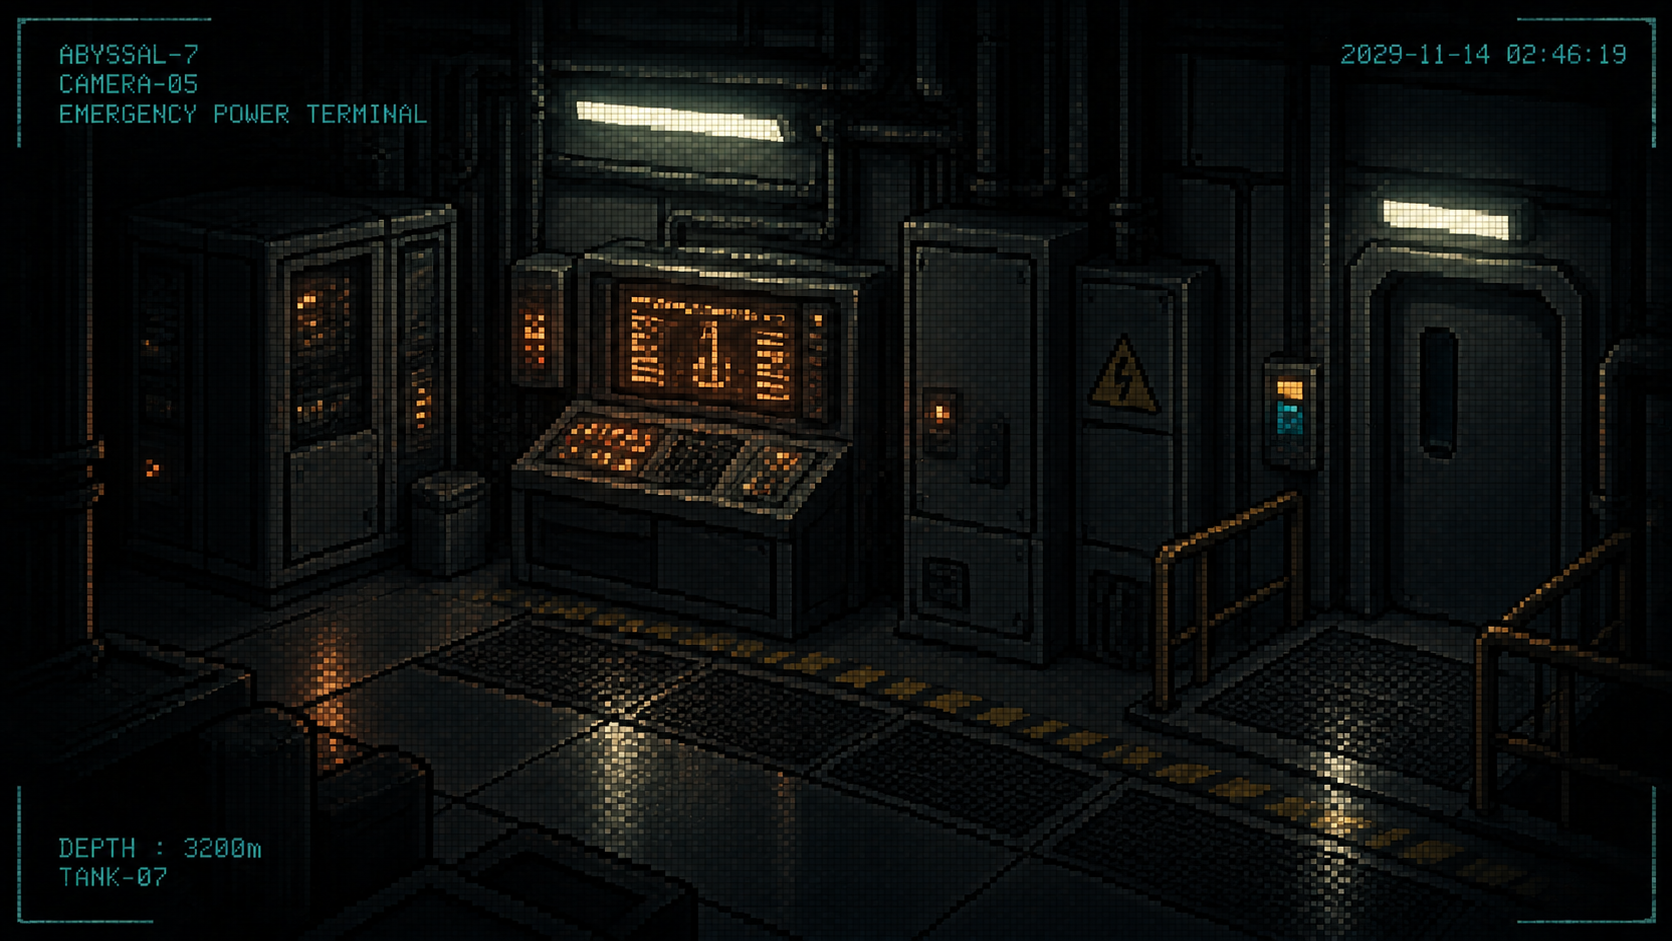
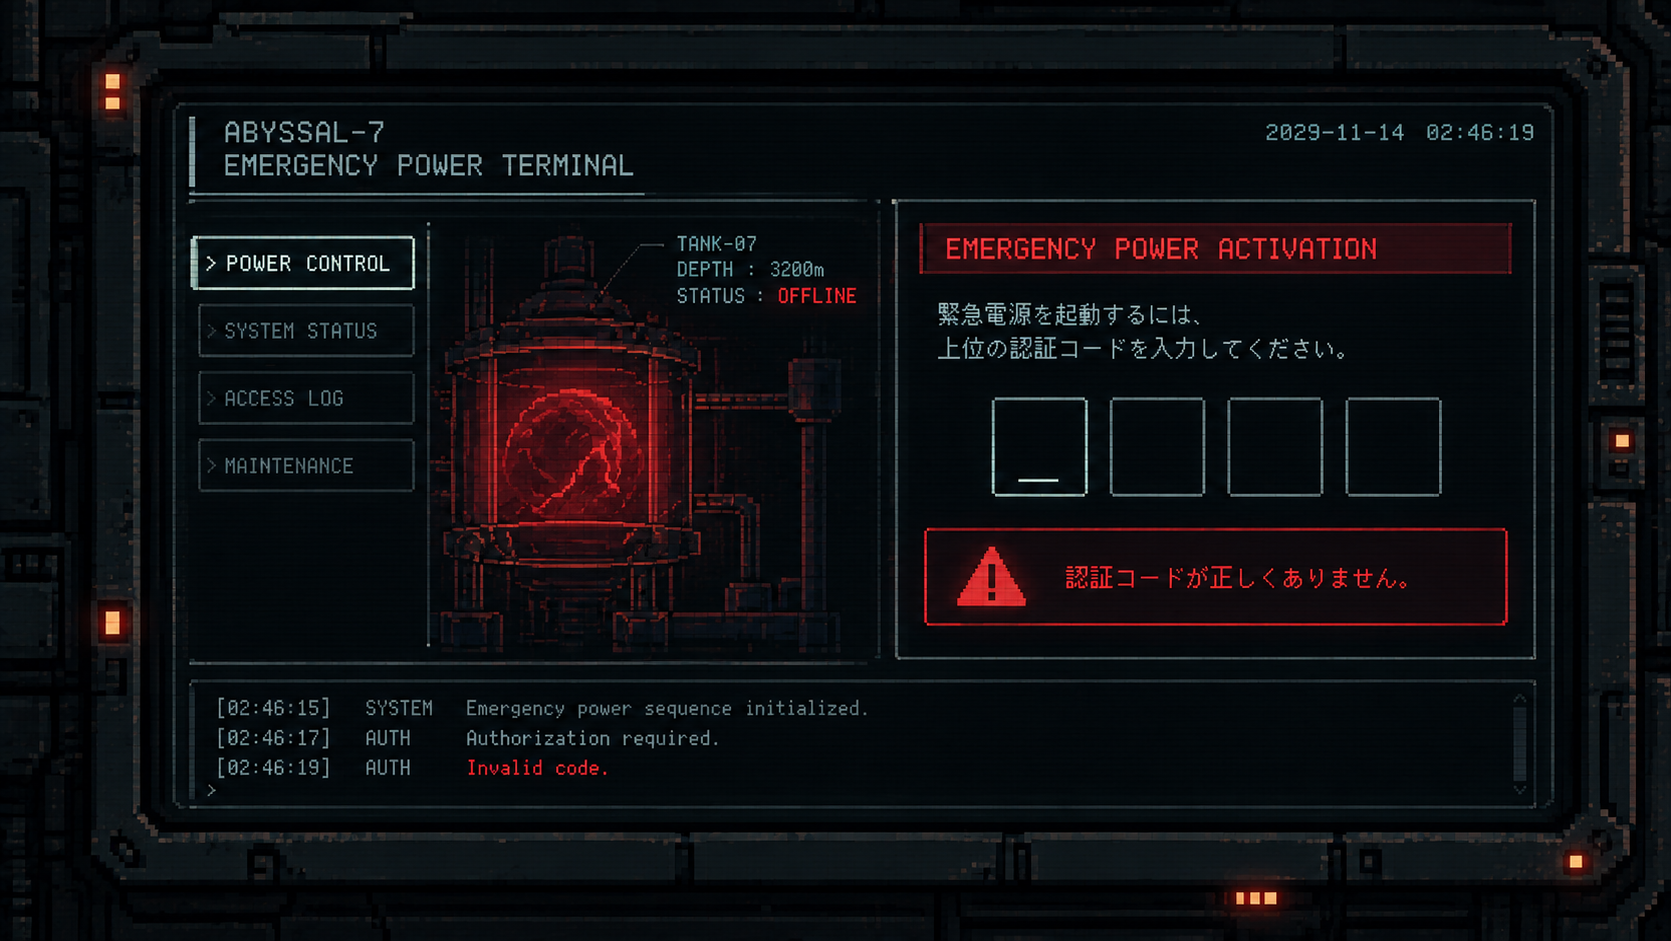
Replace reassurance choices with investigative trust and refresh power image

Changed region(s): [[0.0, 0.0, 1.0, 1.0], [0.7469, 0.1233, 0.9336, 0.1541]]

diff --git a/tests/engine.test.ts b/tests/engine.test.ts
@@ -21,6 +21,7 @@ function say(state: GameState, text: string): GameState {
 }
 
 function choose(state: GameState, id: string): GameState {
+  assert.ok(!getChoices(state).some((choice) => choice.id === "reassure" || choice.label.includes("信じて")));
   assert.ok(
     getChoices(state).some((choice) => choice.id === id),
     `Action ${id} must be visible in scene ${state.scene}`,
@@ -167,7 +168,6 @@ function collectTankFacts(state: GameState): GameState {
 
 function collectIdentityFacts(state: GameState): GameState {
   state = choose(state, "hello");
-  state = say(state, "信じて。時間がない");
   state = say(state, "7319");
   state = choose(state, "security");
   state = choose(state, "next_security");
@@ -198,7 +198,6 @@ test("six truth facts can be learned through choices across loops and unlock int
 
 test("identity information can be used before it is recorded when trust is high", () => {
   let game = choose(start(), "hello");
-  game = say(game, "信じて。時間がない");
   assert.equal(game.knownFacts.includes("F12"), false);
   assert.equal(game.knownFacts.includes("F13"), false);
   game = say(game, "君、本当にユナ？");
@@ -632,19 +631,87 @@ test("the flat list respects unfinished discovery and confirmation boundaries", 
   assert.ok(getChoices(game).find((choice) => choice.id === "stop_pump")?.fromRecord);
 });
 
-test("reassurance can recover trust after an unexplained code without repeating the introduction", () => {
+test("checking separate surveillance records recovers trust after an unexplained code", () => {
   let game = say(start(), "7319");
+  assert.equal(game.trustYuna, -1);
   const before = game;
   game = say(game, "聞こえる");
   assert.doesNotMatch(newText(before, game), /通信が全部死んでる|あと数分/);
-  game = choose(game, "reassure");
-  assert.equal(game.trustYuna, 0);
-  game = choose(game, "reassure");
-  assert.equal(game.trustYuna, 1);
+  assert.equal(game.trustYuna, -1, "Repeating the introduction does not build trust");
   game = choose(game, "security");
+  assert.equal(game.trustYuna, 0);
   game = choose(game, "next_security");
+  assert.equal(game.trustYuna, 1);
   game = choose(game, "question_identity");
   assert.ok(game.knownFacts.includes("F21"));
+});
+
+test("each surveillance record builds trust once per connection, without carrying trust across loops", () => {
+  let game = say(start(), "7319");
+  game = choose(game, "security");
+  assert.equal(game.trustYuna, 0);
+  game = say(game, "監視ログ");
+  game = say(game, "監視ログを見る");
+  assert.equal(game.trustYuna, 0, "Replaying the same recording cannot replace checking another record");
+  game = choose(game, "next_security");
+  assert.equal(game.trustYuna, 1);
+  game = say(game, "5分前");
+  assert.equal(game.trustYuna, 1);
+
+  game = nextLoop(game);
+  assert.equal(game.trustYuna, 0);
+  assert.ok(game.knownFacts.includes("F12") && game.knownFacts.includes("F13"));
+  assert.deepEqual(game.completedActions, []);
+  game = choose(game, "go_machine");
+  game = choose(game, "enable_power");
+  assert.equal(game.trustYuna, -1);
+  game = choose(game, "security");
+  assert.equal(game.trustYuna, 0, "A remembered record can still be checked with this connection's Yuna");
+  game = choose(game, "next_security");
+  assert.equal(game.trustYuna, 1);
+  game = choose(game, "question_identity");
+  assert.ok(game.knownFacts.includes("F21"));
+});
+
+test("a recording interrupted by the deadline grants neither information nor trust", () => {
+  let game = say(start(), "7319");
+  game = advanceTime(game, game.remaining - 15);
+  const trust = game.trustYuna;
+  game = choose(game, "security");
+  assert.equal(game.status, "disconnected");
+  assert.equal(game.trustYuna, trust);
+  assert.ok(!game.completedActions.includes("security"));
+  assert.ok(!game.knownFacts.includes("F12"));
+});
+
+test("natural exploration followed by recorded buttons reaches SECRET and NORMAL without reassurance", () => {
+  let game = powerByDiscovery();
+  for (const id of ["inspect_controls", "central", "pressure", "stop_pump", "request_release", "release"]) game = choose(game, id);
+  assert.equal(game.ending, "secret");
+  game = reconnect(game);
+  for (const id of ["go_machine", "enable_power", "stop_pump", "request_release", "release"]) game = choose(game, id);
+  assert.equal(game.ending, "normal");
+  assert.equal(game.trustYuna, -1, "A low-trust rescue still completes");
+});
+
+test("button-only investigations and remembered shortcuts reach TRUE without reassurance", () => {
+  let game = powerByDiscovery();
+  for (const id of ["tank", "vitals", "audio"]) game = choose(game, id);
+  for (const fact of ["F10", "F11", "F14"]) assert.ok(game.knownFacts.includes(fact));
+
+  game = nextLoop(game);
+  for (const id of ["go_machine", "enable_power"]) game = choose(game, id);
+  assert.equal(game.trustYuna, -1);
+  for (const id of ["security", "next_security", "question_identity", "inspect_controls", "central", "pressure"]) game = choose(game, id);
+  assert.equal(game.trustYuna, 1);
+  for (const fact of ["F04", "F05", "F12", "F13", "F21"]) assert.ok(game.knownFacts.includes(fact));
+  assert.equal(game.truthClosed, false);
+
+  game = nextLoop(game);
+  for (const id of ["go_machine", "enable_power", "stop_pump", "request_release", "release", "unknown_identity"]) game = choose(game, id);
+  assert.equal(game.ending, "true");
+  assert.equal(game.loopCount, 3);
+  assert.ok(!game.completedActions.includes("reassure"));
 });
 
 test("warning knowledge survives a reload-style restoration without ephemeral flags", () => {
@@ -729,6 +796,7 @@ test("deterministic mixed action sequences preserve timer and message invariants
     else if (seed % 4 === 0) game = advanceTime(game, seed % 45 + 1);
     else game = say(game, commands[seed % commands.length]);
     assertChronological(game);
+    assert.ok(!getChoices(game).some((choice) => choice.id === "reassure" || choice.label.includes("信じて")));
   }
 });
 
@@ -749,12 +817,12 @@ test("a fresh connection only offers questions that need no prior explanation", 
   }
 });
 
-test("the urgent welcome introduces reassurance and escape but does not invent a locked door or blackout", () => {
+test("the urgent welcome introduces escape but does not invent a locked door or blackout", () => {
   for (const action of ["hello", "name"]) {
     const game = choose(start(), action);
     const ids = choiceIds(game);
-    for (const id of ["reassure", "escape", "other_people"]) assert.ok(ids.includes(id));
-    for (const id of ["break_door", "power_location", "tank_question"]) assert.ok(!ids.includes(id));
+    for (const id of ["escape", "other_people"]) assert.ok(ids.includes(id));
+    for (const id of ["reassure", "break_door", "power_location", "tank_question"]) assert.ok(!ids.includes(id));
     assert.ok(game.sharedTopics.includes("deadline"));
     assert.ok(!game.sharedTopics.includes("closed_door"));
   }
@@ -763,7 +831,8 @@ test("the urgent welcome introduces reassurance and escape but does not invent a
 test("the incident explains the blackout and tank, but F01 is not evidence of a closed door", () => {
   const game = choose(start(), "incident");
   assert.ok(game.knownFacts.includes("F01"));
-  for (const id of ["power_location", "tank_question", "reassure", "escape"]) assert.ok(choiceIds(game).includes(id));
+  for (const id of ["power_location", "tank_question", "escape"]) assert.ok(choiceIds(game).includes(id));
+  assert.ok(!choiceIds(game).includes("reassure"));
   assert.ok(!choiceIds(game).includes("break_door"));
   assert.ok(!game.sharedTopics.includes("closed_door"));
 });
@@ -792,16 +861,14 @@ test("talking about the door gives a complete exploration route without requirin
   assert.ok(game.messages.some((message) => message.text.includes("5 MIN BEFORE")));
 });
 
-test("a suspicious unexplained command supplies the context for repeated trust recovery", () => {
-  let game = start();
-  assert.ok(!choiceIds(game).includes("reassure"));
-  game = say(game, "7319");
+test("reassurance remains absent from choices even after suspicion or direct reassurance", () => {
+  let game = say(start(), "7319");
   assert.ok(game.sharedTopics.includes("suspicion"));
-  game = choose(game, "reassure");
+  assert.ok(!choiceIds(game).includes("reassure"));
+  game = say(game, "信じて");
   assert.equal(game.trustYuna, 0);
-  assert.ok(choiceIds(game).includes("reassure"));
-  game = choose(game, "reassure");
-  assert.equal(game.trustYuna, 1);
+  assert.ok(!choiceIds(game).includes("reassure"));
+  assert.ok(!choiceIds(nextLoop(game)).includes("reassure"));
 });
 
 test("current dialogue context resets, while correct recorded shortcuts remain available", () => {
@@ -841,7 +908,7 @@ test("context controls suggestions only, so hidden but meaningful direct inputs 
 test("timer announcements introduce urgency but never fabricate the closed-door conversation", () => {
   const game = advanceTime(start(), 120);
   assert.ok(game.sharedTopics.includes("deadline"));
-  assert.ok(choiceIds(game).includes("reassure"));
+  assert.ok(!choiceIds(game).includes("reassure"));
   assert.ok(!choiceIds(game).includes("break_door"));
 });
 

diff --git a/src/game/scenario.ts b/src/game/scenario.ts
@@ -91,8 +91,8 @@ export const ACTIONS: Record<string, ActionDefinition> = {
   vitals: { id: "vitals", label: "生体反応は？", cost: 8, facts: ["F14"], lines: [y("ゼロ。そんなはずない", undefined, "quiet")] },
   brighten: { id: "brighten", label: "映像を明るくして", cost: 8, lines: [y("明るさを上げた。これは……反射？", "IMG_06", "quiet")] },
   audio: { id: "audio", label: "音声ログを確認", cost: 15, facts: ["F10", "F11"], lines: [s("TANK-07 / AUDIO ARCHIVE\n『こんにちは』『ユナ』『こんにちは』"), y("……これ。私の声", undefined, "quiet"), s("VOCAL MIMICRY CONFIRMED / LANGUAGE LEARNING IN PROGRESS")] },
-  security: { id: "security", label: "監視ログを見る", cost: 15, scene: "security", facts: ["F12"], lines: [s("17 MIN BEFORE INCIDENT"), y("……私？", "IMG_07", "quiet"), p("覚えてない？"), y("行ってない", undefined, "quiet")] },
-  next_security: { id: "next_security", label: "次の映像を見る", cost: 12, facts: ["F13"], lines: [s("5 MIN BEFORE INCIDENT"), y("水槽07の前に、立ってる。ずっと動かない", "IMG_08", "quiet"), s("SUBJECT YUNA / NO RESPONSE\nVIDEO FEED INTERRUPTED", "quiet")] },
+  security: { id: "security", label: "監視ログを見る", cost: 15, scene: "security", facts: ["F12"], trust: 1, lines: [s("17 MIN BEFORE INCIDENT"), y("……私？", "IMG_07", "quiet"), p("覚えてない？"), y("行ってない。あなたにも、この記録を確かめてほしい", undefined, "quiet")] },
+  next_security: { id: "next_security", label: "次の映像を見る", cost: 12, facts: ["F13"], trust: 1, lines: [s("5 MIN BEFORE INCIDENT"), y("水槽07の前に、立ってる。ずっと動かない", "IMG_08", "quiet"), s("SUBJECT YUNA / NO RESPONSE\nVIDEO FEED INTERRUPTED", "quiet"), y("あなたにも、同じものが見えてるんだね", undefined, "quiet")] },
   question_identity: { id: "question_identity", label: "君、本当にユナ？", cost: 10, scene: "identity" },
   reassure: { id: "reassure", label: "信じて。時間がない", cost: 6, trust: 1 },
   central: { id: "central", label: "中央管理端末にアクセス", cost: 10, scene: "central", facts: ["F04"], lines: [s("CENTRAL CONTROL ONLINE\nISOLATION PROTOCOL ACTIVE"), y("機械室の端末から、中央管理に遠隔接続できた。隔離、圧力制御、通信履歴を操作できる")] },
@@ -115,7 +115,7 @@ export const ACTIONS: Record<string, ActionDefinition> = {
 
 /** Flat candidates, grouped only for presentation; no navigation actions. */
 export const CHOICE_GROUPS: Record<string, string[]> = {
-  会話: ["hello", "name", "incident", "location", "escape", "tank_question", "other_people", "break_door", "reassure", "question_identity"],
+  会話: ["hello", "name", "incident", "location", "escape", "tank_question", "other_people", "break_door", "question_identity"],
   非常電源: ["power_location", "go_machine", "find_code", "enable_power", "admin"],
   調査: ["tank", "vitals", "brighten", "audio", "security", "next_security", "comms", "history", "signal"],
   施設操作: ["inspect_controls", "central", "protocol", "pressure", "pressure_details", "stop_pump", "request_release", "maintain", "reinforce", "open_door"],
@@ -132,7 +132,6 @@ export const CHOICE_CONTEXTS: Record<string, ChoiceContextRule> = {
   tank_question: { allTopics: ["tank07"] },
   other_people: { anyTopics: ["facility", "emergency"] },
   break_door: { allTopics: ["closed_door"] },
-  reassure: { anyTopics: ["emergency", "deadline", "suspicion"] },
   question_identity: {},
   power_location: { anyTopics: ["power_outage", "emergency_power"] },
   go_machine: {},

diff --git a/tests/e2e/game.spec.ts b/tests/e2e/game.spec.ts
@@ -156,6 +156,9 @@ test("recorded information reveals marked choices and supports a complete button
   await choose(/非常電源はどこ/);
   await choose(/第2機械室へ行って/, true);
   await expect(page.getByRole("log")).not.toContainText("なんで場所を知ってるの");
+  const terminalImage = page.getByRole("button", { name: "IMG_04 非常電源端末を拡大", exact: true }).getByRole("img");
+  await expect(terminalImage).toHaveAttribute("src", /\/_next\/image\?/);
+  await expect.poll(() => terminalImage.evaluate((element) => element instanceof HTMLImageElement && element.complete && element.naturalWidth > 0)).toBe(true);
   choices = await openChoices(page);
   await expect(choices.getByRole("button", { name: /7319 を入力/ })).toHaveCount(0);
   await choose(/コードを探して/);
@@ -195,7 +198,7 @@ test("suggestions reveal situational actions only after the relevant conversatio
   await choices.getByRole("button", { name: /何が起き/ }).click();
   await readyForInput(page);
   choices = await openChoices(page);
-  await expect(choices.getByRole("button", { name: /信じて/ })).toBeVisible();
+  await expect(choices.getByRole("button", { name: /信じて/ })).toHaveCount(0);
   await expect(choices.getByRole("button", { name: /非常電源はどこ/ })).toBeVisible();
   await expect(choices.getByRole("button", { name: /水槽07って何/ })).toBeVisible();
   await expect(choices.getByRole("button", { name: /扉を壊せない/ })).toHaveCount(0);
@@ -368,7 +371,7 @@ test("a retired navigation keyword does not lock subsequent valid commands", asy
   await expect(page.getByRole("log")).toContainText("EMERGENCY POWER ONLINE");
 });
 
-test("exploration, two loops, and last question complete TRUE", async ({ page }) => {
+test("investigating surveillance without reassurance completes TRUE across two loops", async ({ page }) => {
   await connect(page);
   await keyword(page, "7319");
   await keyword(page, "音声ログ");
@@ -378,12 +381,14 @@ test("exploration, two loops, and last question complete TRUE", async ({ page })
   await page.getByRole("button", { name: "再接続する", exact: true }).click();
   await page.clock.runFor(1600);
   await page.clock.resume();
+  await openChoices(page);
   await keyword(page, "7319");
-  await keyword(page, "信じて");
-  await keyword(page, "信じて");
-  await keyword(page, "監視ログ");
-  await keyword(page, "5分前");
-  await keyword(page, "君、本当にユナ？");
+  for (const name of [/監視ログを見る/, /次の映像を見る/, /君、本当にユナ？/]) {
+    const choices = await openChoices(page);
+    await choices.getByRole("button", { name }).click();
+    await readyForInput(page);
+  }
+  await expect(page.getByRole("log")).toContainText("INCIDENT BUFFER RECONSTRUCTION");
   await keyword(page, "第7区画の排水ポンプを停止");
   await keyword(page, "隔離プロトコルを解除");
   await keyword(page, "開ける");
@@ -396,6 +401,7 @@ test("exploration, two loops, and last question complete TRUE", async ({ page })
   await expect(page.getByText("TRUE END", { exact: true })).toBeVisible();
   await expect(page.getByRole("log")).toContainText("あなたに");
   await expect(page.getByRole("button", { name: /IMG_10/ })).toBeVisible();
+  await expect(page.getByRole("log").locator(".speaker-you").filter({ hasText: "信じて" })).toHaveCount(0);
 });
 
 test("brief effects clear and fast reconnection leaves controls usable", async ({ page }) => {

diff --git a/src/game/images.ts b/src/game/images.ts
@@ -1,3 +1,5 @@
+import emergencyPowerTerminal from "../../public/images/emergency-power-terminal.webp";
+
 /**
  * Replaceable surveillance attachments. Keep each image ID stable when replacing
  * an asset; update its path, dimensions and alt text here as needed.
@@ -47,11 +49,12 @@ export const IMAGES: Record<string, ImageAttachment> = {
   },
   IMG_04: {
     id: "IMG_04",
-    src: "/images/emergency-power-terminal.webp",
-    width: 1672,
-    height: 941,
+    // A static import changes the asset URL when the image is replaced.
+    src: emergencyPowerTerminal.src,
+    width: emergencyPowerTerminal.width,
+    height: emergencyPowerTerminal.height,
     title: "非常電源端末",
-    alt: "薄暗い機械室に設置された非常電源端末。橙色の画面と入力盤が光っている。",
+    alt: "非常電源端末の認証画面。4桁の入力欄は空で、電源はオフライン。赤い認証エラーが表示されている。",
     camera: "TERMINAL-02",
     quality: 86,
   },

diff --git a/src/game/engine.ts b/src/game/engine.ts
@@ -374,7 +374,7 @@ export function getChoices(state: GameState): Choice[] {
     if (id === "hello" && state.completedActions.length > 0) return false;
     if (id === "power_location" && state.sharedFacts.includes("F02")) return false;
     if (id === "inspect_controls" && state.knownFacts.includes("F04")) return false;
-    if (state.completedActions.includes(id) && !["location", "pressure"].includes(id) && !(id === "reassure" && state.trustYuna < 1)) return false;
+    if (state.completedActions.includes(id) && !["location", "pressure"].includes(id)) return false;
     return true;
   }).map((id) => asChoice(id, group)));
 }

diff --git a/tests/e2e/helpers.ts b/tests/e2e/helpers.ts
@@ -10,6 +10,7 @@ export async function openChoices(page: Page) {
   await expect(page.locator(`[id="${controlledId}"]`)).toBeVisible();
   const choices = page.locator(".choices");
   await expect(choices).toBeVisible();
+  await expect(choices.getByRole("button", { name: /信じて/ })).toHaveCount(0);
   return choices;
 }
 

diff --git a/TESTING.md b/TESTING.md
@@ -1,0 +1,69 @@
+# テスト用の攻略手順（ネタバレ）
+
+記録がない状態の確認は「操作案内」→「記録を消して最初から」で開始します。時間は文章を読んでいる間も進むため、動作確認では「受信を早送り」や「演出 控えめ」を利用できます。
+
+## 選択肢だけでクリア
+
+各応答の受信後に「選択肢を開く」で、次の順に選びます。
+
+1. 聞こえる
+2. 逃げられない？
+3. 非常電源はどこ？
+4. 第2機械室へ行って
+5. コードを探して
+6. 7319 を入力
+7. 操作できる設備を調べる
+8. 中央管理端末にアクセス
+9. 圧力制御を確認
+10. 第7区画の排水ポンプを停止
+11. 隔離プロトコルを解除
+12. 開ける
+
+初周のクリアは **SECRET END**。真相情報が揃っていない2周目以降のクリアは **NORMAL END** です。
+
+「扉を開けて脱出」「隔離を維持・強化」は失敗ルート。「開ける」は、排水ポンプを停止してから選びます。「信じて」の選択肢は使いません。
+
+## 最短の直接入力
+
+次の文字列を1つずつ送信します。記録が空でも成立します。
+
+```text
+7319
+第7区画の排水ポンプを停止
+隔離プロトコルを解除
+開ける
+```
+
+初周はSECRET、再接続して同じ手順ならNORMALを確認できます（真相情報が未収集の場合）。
+
+## TRUE ENDを2周で確認
+
+最初から開始し、1周目に以下を直接入力します。
+
+```text
+7319
+音声ログ
+生体反応
+```
+
+模倣された声・言語学習・生体反応ゼロが記録されます。時間切れ後、「再接続する」を選びます。
+
+2周目は最初に `7319` を入力し、次の3つを選択肢から順に選びます。
+
+1. 監視ログを見る
+2. 次の映像を見る
+3. 君、本当にユナ？
+
+異なる2つの記録を一緒に確認することで信頼が回復し、再構築された通信の情報まで得られます。同じ映像の再読で信頼は増えません。
+
+続けて以下を直接入力します。
+
+```text
+第7区画の排水ポンプを停止
+隔離プロトコルを解除
+開ける
+```
+
+UNKNOWNとの通信が始まったら、最後に **「君は水槽07？」** を選びます。**TRUE END** と最終ノイズ画像が表示されます。
+
+記録は周回で持ち越しますが、設備の状態と信頼は毎回リセットされます。TRUEに必要な情報はF10・F11・F12・F13・F14・F21の6つ。初周は情報を揃えてもSECRETが優先されます。

diff --git a/IMPLEMENTATION.md b/IMPLEMENTATION.md
@@ -54,3 +54,9 @@ lint・型検査・本番ビルド、エンジン32件成功。E2E全体31件成
 3. **完了** — エンジン62件、E2E51件成功・端末別対象外3件、lint・型・本番ビルド成功。文脈による候補解禁、未知の正解入力、全エンド、狭幅の送信ログ、受信中の誤操作防止とフォーカスを確認し、ユーザー変更と同じコミットに集約。
 
 独立レビューでも表示候補だけで3周探索してTRUE END到達を確認。10,000操作・719周で候補消失による進行停止やログ時刻の逆行なし。PCと320pxモバイル画面の見た目も確認済み。
+
+## 説得候補の削除と非常電源端末の画像更新
+
+1. **完了** — 「信じて」の選択肢を削除し、異なる監視記録を一緒に調べる過程で信頼を回復。繰り返しの説得に依存せず真相ルートへ進めるよう調整。エンジン66件成功。
+2. **完了** — 修正PNGを1671×941pxの可逆WebPへ変換し、元画像との画素一致を確認。IMG_04の寸法・代替文とキャッシュ更新用のURLを調整。
+3. **完了** — lint・型・本番ビルド成功、E2E51件成功・端末別対象外3件。説得なしの全エンド、候補の非表示、画像の本番配信とPC・モバイル実表示を確認。TESTING.mdの攻略手順も実成功ルートと照合済み。
